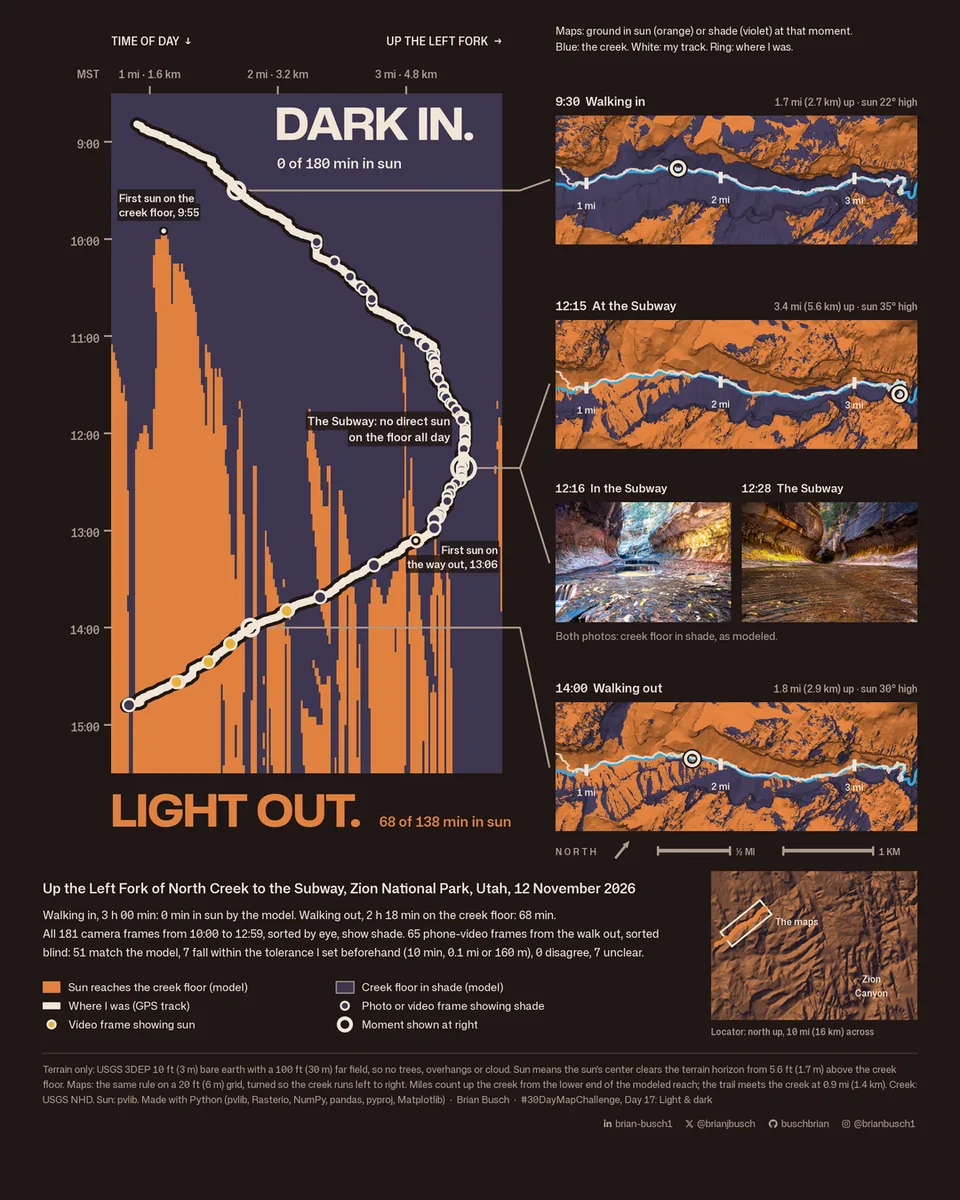
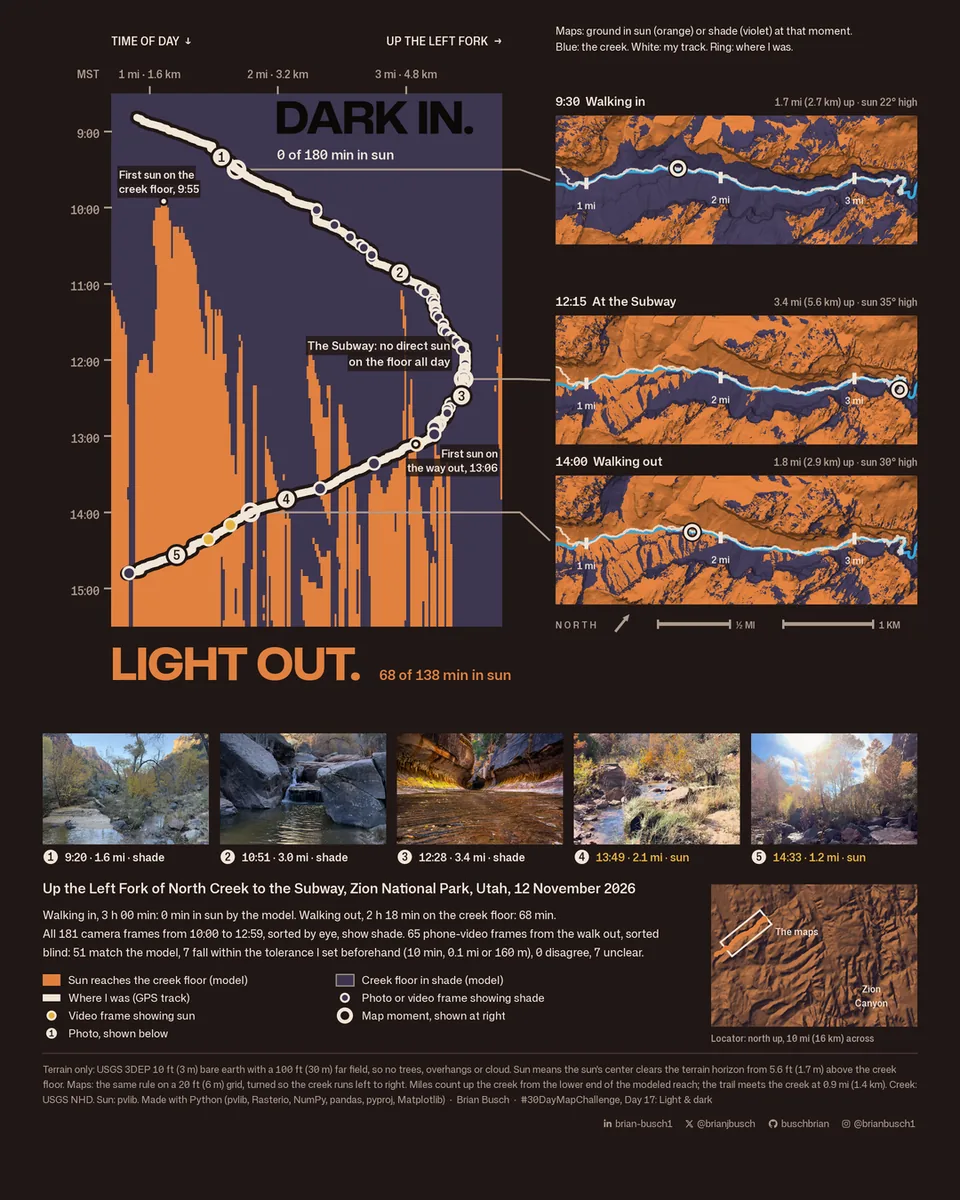
Add the photo strip to the Day 17 still
Five numbered photos from the walk in, the Subway and the walk out now
sit under the chart, and "Dark in" is set in black. The alt text and the
chart paragraph mention the photos.

diff --git a/notes/left-fork-light-and-dark/index.html b/notes/left-fork-light-and-dark/index.html
@@ -75,7 +75,7 @@
           </div>
         </header>
         <figure class="post-hero-image">
-          <picture><source type="image/webp" srcset="/assets/images/r/day-17-left-fork-light-480.webp 480w, /assets/images/r/day-17-left-fork-light-960.webp 960w, /assets/images/r/day-17-left-fork-light-1080.webp 1080w" sizes="(max-width: 720px) 90vw, 720px"><img src="/assets/images/day-17-left-fork-light.jpg" alt="A chart, three maps and two photos of sun and shade in the Left Fork of North Creek on November 12, 2026. In the chart, time runs down the page and miles up the creek run across. Modeled sun on the creek floor is orange and shade is violet. A white GPS track goes through violet from 0.9 miles at 8:49 to the Subway at 3.5 miles at 11:49. It comes back through orange bands to 0.8 miles at 14:48. Three maps at the right show the shadows of the canyon walls at 9:30, 12:15 and 14:00, with a ring at the hiker's position. Two photos from the Subway show the creek floor in shade." width="1080" height="1350"></picture>
+          <picture><source type="image/webp" srcset="/assets/images/r/day-17-left-fork-light-480.webp 480w, /assets/images/r/day-17-left-fork-light-960.webp 960w, /assets/images/r/day-17-left-fork-light-1080.webp 1080w" sizes="(max-width: 720px) 90vw, 720px"><img src="/assets/images/day-17-left-fork-light.jpg" alt="A chart, three maps and five photos of sun and shade in the Left Fork of North Creek on November 12, 2026. In the chart, time runs down the page and miles up the creek run across. Modeled sun on the creek floor is orange and shade is violet. A white GPS track goes through violet from 0.9 miles at 8:49 to the Subway at 3.5 miles at 11:49. It comes back through orange bands to 0.8 miles at 14:48. Three maps at the right show the shadows of the canyon walls at 9:30, 12:15 and 14:00, with a ring at the hiker's position. Five numbered photos below match numbers on the track. At 9:20, 10:51 and 12:28 the creek floor is in shade. At 13:49 and 14:33 it is in sun." width="1080" height="1350"></picture>
           <figcaption>The still for Day 17. <a href="/assets/images/day-17-left-fork-light.jpg">Open the still</a>.</figcaption>
         </figure>
         <div class="post-content">
@@ -83,7 +83,7 @@
           <p>The Subway is a curved section of the Left Fork of North Creek in Zion National Park. The creek runs through a tube of sandstone there. In November the sun is low, and the canyon walls block it for most of the day.</p>
           <p>I walked up the creek to the Subway on November 12 and recorded a GPS track. A sun model gives the walk in 0 of 180 minutes of direct sun. It gives the walk out 68 of 138 minutes.</p>
           <p>My photos agree. Every camera frame from the morning shows shade. On the walk out, I sorted 65 frames from phone video into sun and shade before I compared them with the model. None of them disagrees with it.</p>
-          <p>In the chart, time runs down the page and miles up the creek run across. Orange is direct sun on the creek floor at eye height. Violet is shade. The white line is my track. The dots are photos and video frames, and the gold dots show sun. The maps at the right turn the canyon so that the creek runs from left to right, as in the chart.</p>
+          <p>In the chart, time runs down the page and miles up the creek run across. Orange is direct sun on the creek floor at eye height. Violet is shade. The white line is my track. The dots are photos and video frames, and the gold dots show sun. The maps at the right turn the canyon so that the creek runs from left to right, as in the chart. The numbers on the track match the five photos below the chart.</p>
           <h2>Watch the shadows move</h2>
           <figure class="post-hero-image post-map-animation">
             <video controls loop muted playsinline preload="none" width="1080" height="1350" poster="/assets/images/day-17-left-fork-light.jpg" aria-label="A silent video, 17 seconds long. It opens on a photograph of the Left Fork below the Subway. The creek floor is in shade and the walls above are in sun. Then a map of the canyon shows the shadows of the walls move from 8:30 to 16:45, with a clock and a dot at the hiker's position. A chart below fills in from left to right. The video ends on the full chart.">
